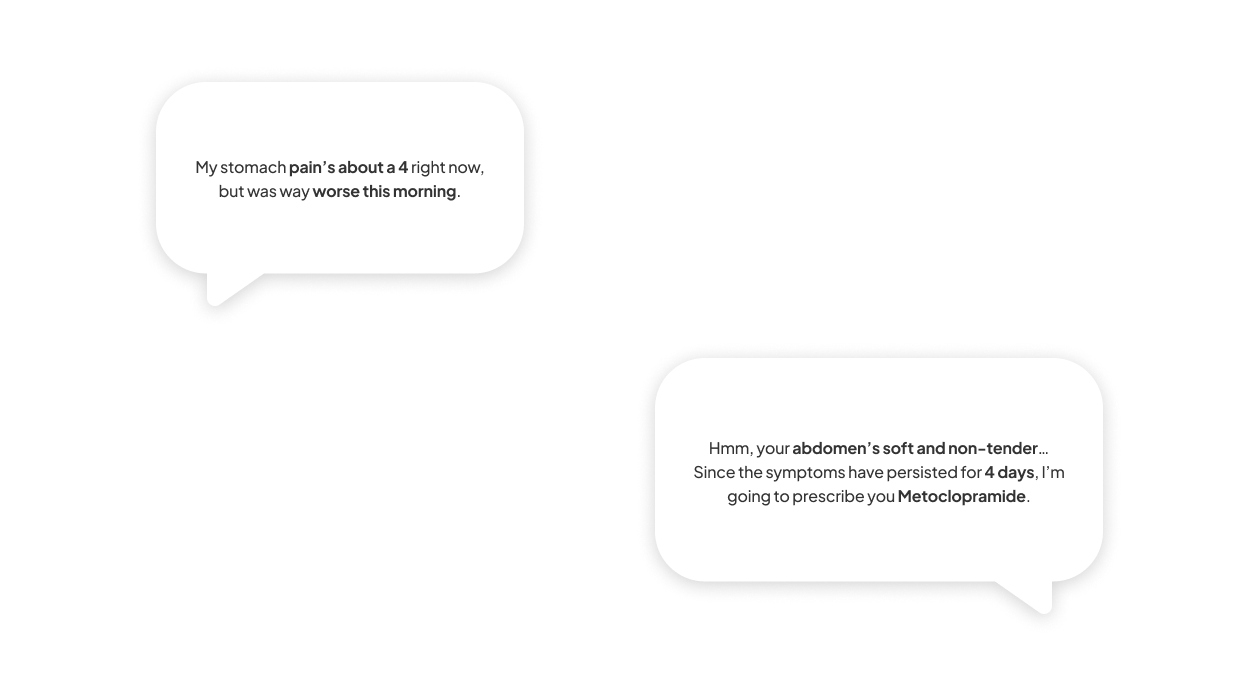
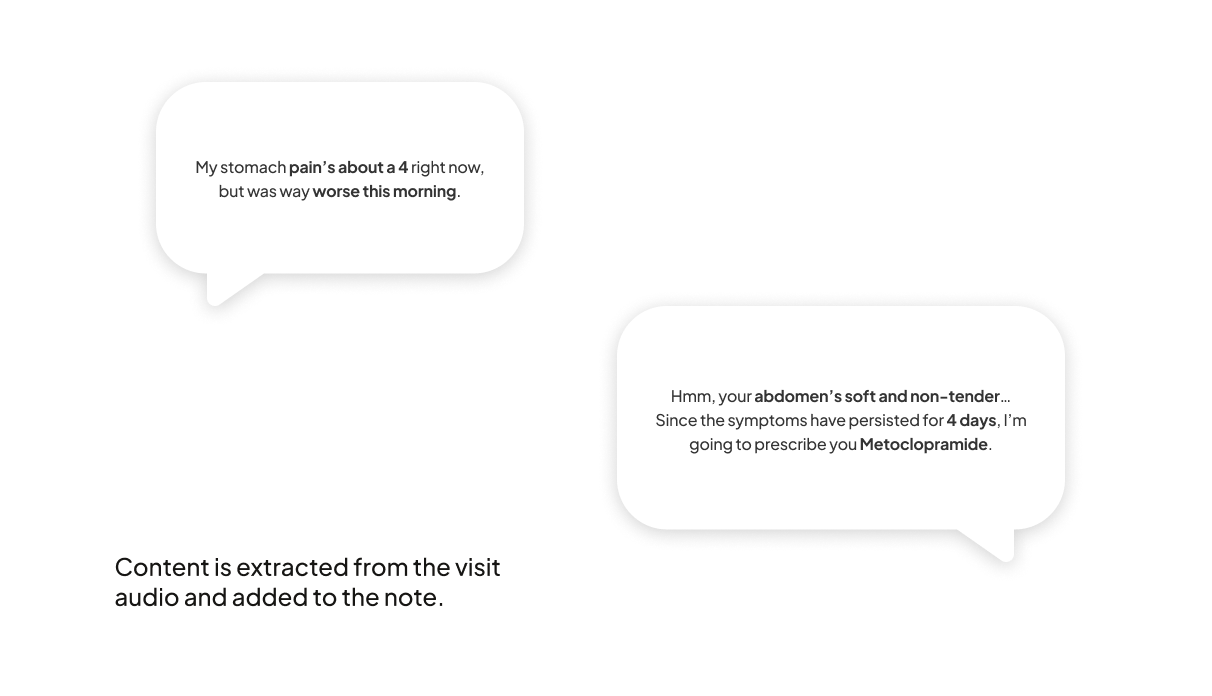
Clinical improvements

diff --git a/oracleclinical.html b/oracleclinical.html
@@ -38,12 +38,12 @@
 
     <div class="project-section reveal">
       <h3>NDA Note</h3>
-      <p>This project is under NDA. Screens shown here are anonymized with a designer system I created on my own — the interaction patterns, design decisions, and design process are real, but all clinical content, patient data, and Oracle branding have been removed. </p>
+      <p>This project is under NDA. Screens shown here are anonymized with my own components.</p>
     </div>
 
     <div class="project-section reveal">
       <h3>The Problem</h3>
-      <p>For every 8 hours doctors spend with patients, they spend 5 hours <a href="https://www.ama-assn.org/practice-management/digital-health/digging-data-cut-ehr-burdens-drive-burnout">[1]</a> struggling through unusable EHR software to record long, bloated, redundant notes, <a hred="https://www.techtarget.com/searchhealthit/news/366579094/Growing-Length-of-EHR-Clinical-Notes-Raises-Clinician-Burnout-Concerns">[2]</a> Growing-Length-of-EHR-Clinical-Notes-Raises-Clinician-Burnout-Concerns) often outside of work hours, a task significantly associated with physician burnout. <a href="https://www.ama-assn.org/practice-management/digital-health/digging-data-cut-ehr-burdens-drive-burnout">[3]</a></p>
+      <p>For every 8 hours doctors spend with patients, they spend 5 hours struggling through unusable EHR software to record long, bloated, redundant notes, a task significantly associated with physician burnout. <a href="https://www.ama-assn.org/practice-management/digital-health/digging-data-cut-ehr-burdens-drive-burnout">[1]</a> <a hred="https://www.techtarget.com/searchhealthit/news/366579094/Growing-Length-of-EHR-Clinical-Notes-Raises-Clinician-Burnout-Concerns">[2]</a> <a href="https://www.ama-assn.org/practice-management/digital-health/digging-data-cut-ehr-burdens-drive-burnout">[3]</a></p>
       <!--
       <p>For every 8 hours doctors spend with patients, they spend 5 hours on documentation, a workload significantly associated with physician burnout. <a href="https://www.ama-assn.org/practice-management/digital-health/digging-data-cut-ehr-burdens-drive-burnout">[1]</a> <a href="https://www.ama-assn.org/practice-management/digital-health/digging-data-cut-ehr-burdens-drive-burnout">[2]</a> </p
       -->
@@ -53,7 +53,6 @@
     <div class="project-section reveal">
       <h3>The Solution</h3>
       <h4>By using generative AI to integrate multiple modalities of note-writing.</h4>
-      <img src="clinical/multimodal.png" alt="Diagram of the different modalities of note-writing">
     </div>
 
 <div class="divider"> </div>
@@ -72,23 +71,14 @@
 
       <p>
         First, let's automate everything we can:
-        <br>1. Kickstart a note for each visit, using a template based on this patient's history and visit type
-        <br>2. Prefill discrete chart data
-        <br>3. Start with an AI summary of the patient presentation and reason for visit
       </p>
       <img src="clinical/kickstarted.png" alt="Graphic of physician note being filled in through a patient and doctor conversation">
-
 
       <p>
         Then, ambient listening during a visit can fill in many of the gaps.
       </p>
       <img src="clinical/visitaudio.png" alt="Graphic of physician note being filled in through a patient and doctor conversation">
-      <div class="o-columns">
-        <div class="lcol-title"> <p>Content is extracted from the visit audio and added to the note.</p></div>
-        <div class="ocol">
-          <img src="clinical/addaudio.gif" alt="Animation of text generating inside the note" style="border-radius:8px; max-width: 900px; position: center;">
-        </div>
-      </div>
+      <img src="clinical/addaudio.gif" alt="Animation of text generating inside the note" style="border-radius:8px;">
 
 
     </div>
@@ -104,7 +94,8 @@
 
       <h4>So, I designed a flexible view optimized for navigating the chart and working on the note side-by-side.</h4>
 
-      <img src="clinical/anonchart.png" alt="Anonymized side-by-side interface">
+      <img src="clinical/tag.gif" alt="Graphic of physician note being filled in through a patient and doctor conversation" style="border-radius:8px;">
+
     </div>
 
     <div class="project-section reveal">
@@ -112,8 +103,8 @@
       <p>Another learning from my physician partner is that since the transition to electronic health records, physician notes have gotten <b>worse,</b> not better.  For repeat visits or long-term treatments, it became common practice to duplicate the old note and write more on top. EHR notes have grown 60% longer and 11% more redundant over the last few years. <a hred="https://www.techtarget.com/searchhealthit/news/366579094/Growing-Length-of-EHR-Clinical-Notes-Raises-Clinician-Burnout-Concerns">[3]</a></p>
       <h4> I saw an opportunity to improve the quality of note outcomes, not just the experience of making them, by integrating Oracle’s biggest differentiator - our AI capabilities.</h4>
       <p>
-      <img src="clinical/tag.gif" alt="Graphic of physician note being filled in through a patient and doctor conversation">
       </p>
+      <img src="clinical/multimodal.png" alt="Diagram of the different modalities of note-writing">
 
     </div>
 
@@ -122,6 +113,8 @@
       <h3>04 Translating to Nursing</h3>
       <p>As the experience definition phase of documentation wrapped up with a roadshow of my final demos across the VP level, I continued to work with developers throughout implementation.</p>
       <p>At the same time, the nursing product team reached out - they were starting a redesign of forms-based charting, and asked for me specifically based on my reputation with the other documentation PMs! :D So I took on a new project, building a great collaboration with our nursing experts (shoutout Tara and Anne!) and revolutionizing the charting experience.</p>
+      <p> Forms-based charting shares goals with notes; recording accurate, thorough information without breaking a clinician's attention to their patient. But, it's much more discrete data and many form fields, rather than written narrative. So audio capture was still a huge innovation, but quick keyboard macros and navigation were a unique value add.
+      </p>
     </div>
 
     <div class="spacer"></div>
@@ -131,7 +124,7 @@
       <p>Led 2 workstreams end-to-end across 18 months, from early research and concept exploration to providing dev support for shipped code.</p>
       <h4> 🧠 Drove EHR framework and built reusable patterns </h4>
       <p> I designed patterns that were picked up and scaled across the EHR - my collection feature made it into messaging; side-by-side "review and do" modality applied to acute and specialty workflows; my AI strategy drove the direction of our automatic meds reconciliation workflow; my charting guided workflow faciliated the medication administration workstream.</p>
-      <p>It feels amazing to not only see my designs in action, but also see ym influence across other products and workstreams!</p>
+      <p>It feels amazing to not only see my designs in action, but also see my influence across other products and workstreams!</p>
       <h4> 🤗 Built customer relationships </h4>
       <p> I helped reignite our relationship with our nursing client base with work that resonated with their experiences and represented their needs. We host a weekly workgroup of clients where we do research and show products/demos for feedback. This group was waning in engagement and excitement for a while, until I presented my initial charting demo. We had the most active engagement our facilitator had seen yet, with both excited positive feedback, and thoughtful constructive feedback.</p>
     </div>
